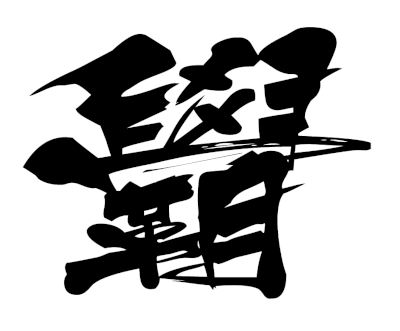
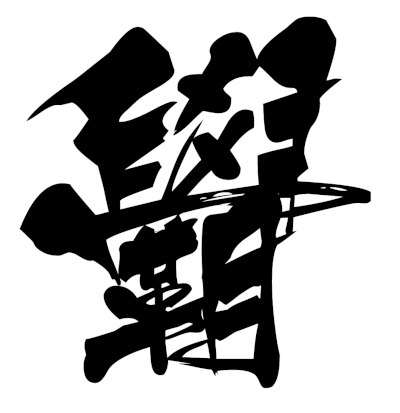
Modified king of study example

Changed region(s): [[0.03, 0.0302, 0.93, 0.9366], [0.6, 0.3021, 0.63, 0.3323], [0.21, 0.2719, 0.24, 0.3021]]

diff --git a/docs/king_of_study.html b/docs/king_of_study.html
@@ -14,25 +14,48 @@
         </style>
     </head>
     <body>
-        <div class="w-75 h-75">
-            <svg viewBox="0 0 100 100">
-                <defs> 
+        <!-- Use bootstrap for responsive layout -->
+        <div class="container d-flex flex-row justify-content-center p-5"> 
+            <svg viewBox="-40 -40 80 80" >
+                <defs>  
                     <clipPath id="clip_path_study">
-                        <polygon points="54,-49 55,-40 52,-27 60,-23 48,-13 41,-14 38,-21 21,-16 20,-11 19,-8 10,-8 -1,-21 3,-43 28,-55 44,-55"/>
+                        <polygon points="12,1 29,-3 28,-11 19,-14 24,-26 18,-37 -12,-36 -27,-21 -32,-8 -27,7 -19,8 -13,7 -8,7 -9,0 -6,-1 0,-3 7,-5 9,-4"/>
                     </clipPath>
                     <clipPath id="clip_path_king">
-                        <polygon points="53,-30 54,-17 53,4 24,7 2,6 7,-20 15,-24 18,-23 21,-21 28,-24 37,-26 43,-30 50,-31"/>
+                        <polygon points="24,-4 21,9 20,26 -12,22 -29,22 -20,-1 -11,-7 -8,-6 -4,-8 -2,-10 0,-11 7,-10 13,-13 17,-14 22,-12"/>
                     </clipPath>
                 </defs>
-                <g>
-                    <text class="eachChar" transform="scale(1.5 1) translate(3 60)" clip-path="url(#clip_path_study)" >學</text>  
+
+                <!-- Note:    
+                transform is applied in a reverse order 
+                [last] translate()  rotate()  scale() [first]
+                -->
+                <g transform="">
+                    <text class="eachChar" 
+                    text-anchor="middle" 
+                    dominant-baseline="middle"
+                    clip-path="url(#clip_path_study)"
+                    >學</text> 
                 </g>
-                <g>
-                    <text class="eachChar" transform="scale(1.2 1) translate(10 68)" clip-path="url(#clip_path_king)" >覇</text>  
+
+                <g transform="translate(0 4) scale(0.7 0.9)">
+                    <text class="eachChar" 
+                    text-anchor="middle" 
+                    dominant-baseline="middle"
+                    clip-path="url(#clip_path_king)"
+                    >覇</text> 
                 </g>
-            
-                
+
+                <!-- Draw X, Y axis, for better understanding -->
+                <!--
+                <line stroke-dasharray="1,1" stroke-opacity="0.5" x1="-100" y1="0" x2="100" y2="0" stroke="grey" />
+                <line stroke-dasharray="1,1" stroke-opacity="0.5" x1="0" y1="-100" x2="0" y2="100" stroke="grey" />
+                -->
+                 <!-- Draw an origin -->
+                 <!--
+                <circle cx="0" cy="0" r="3" fill="red" fill-opacity="0.5" />
+                 -->
             </svg>
-         </div>
+        </div>
     </body>
 </html>
